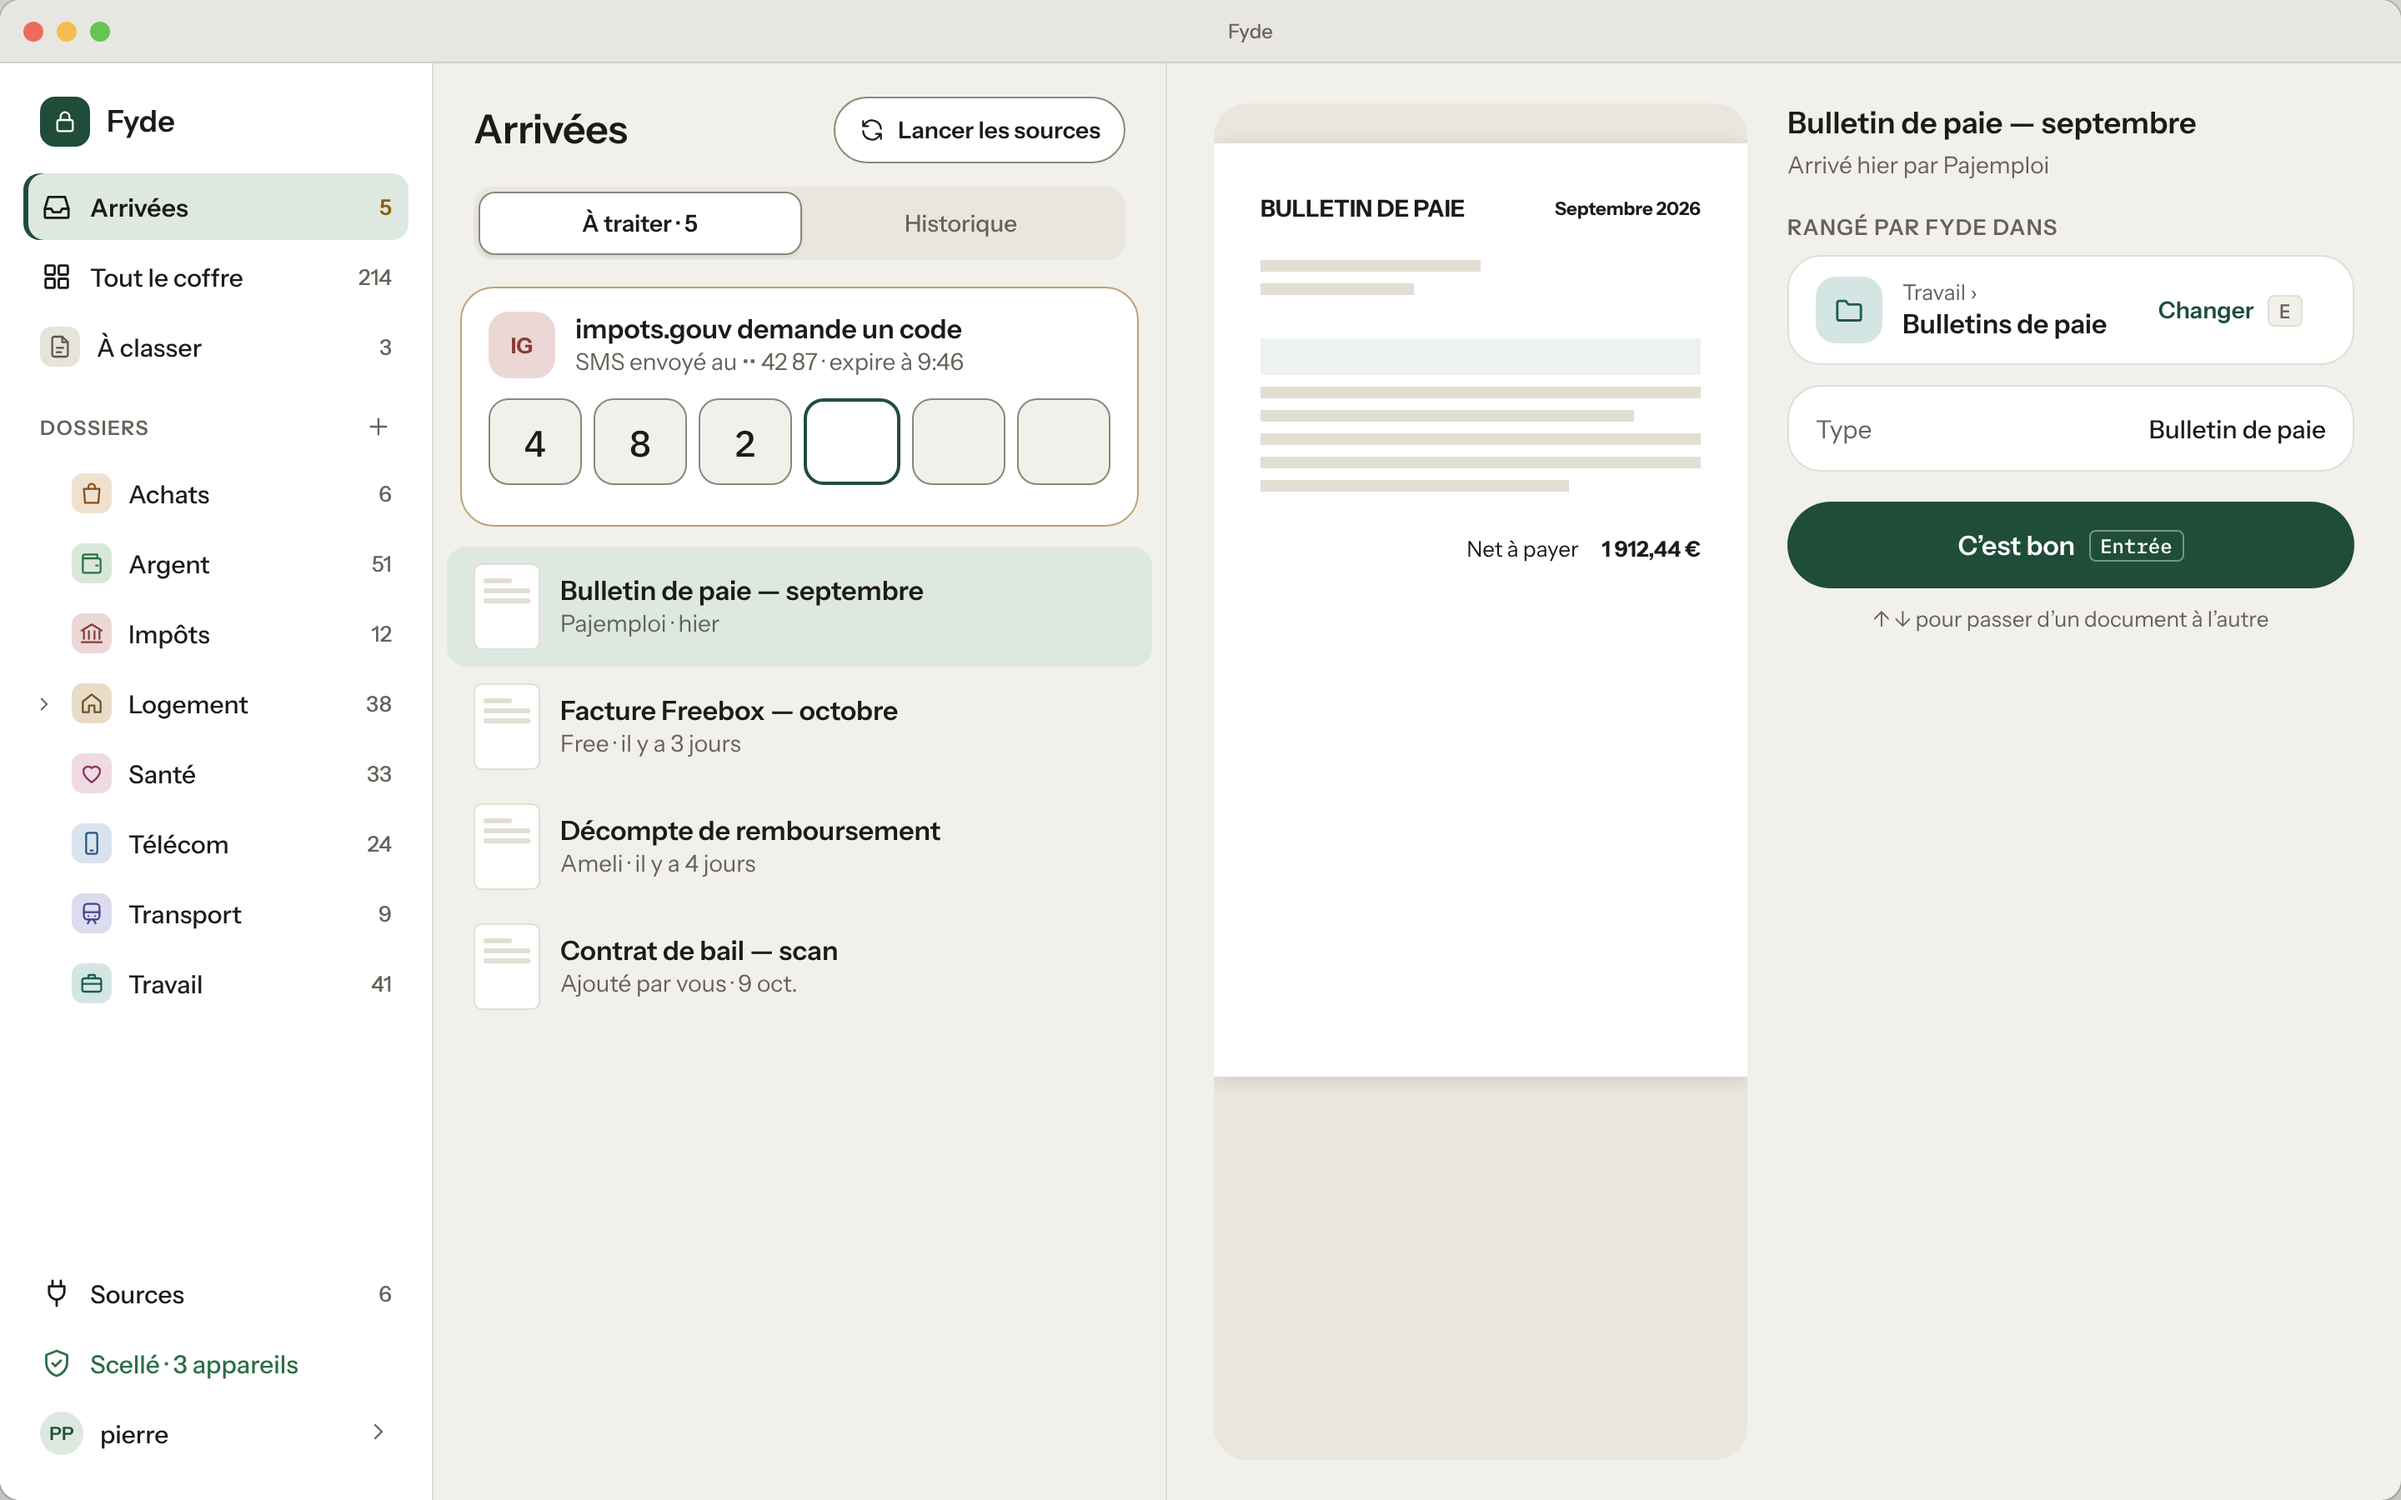
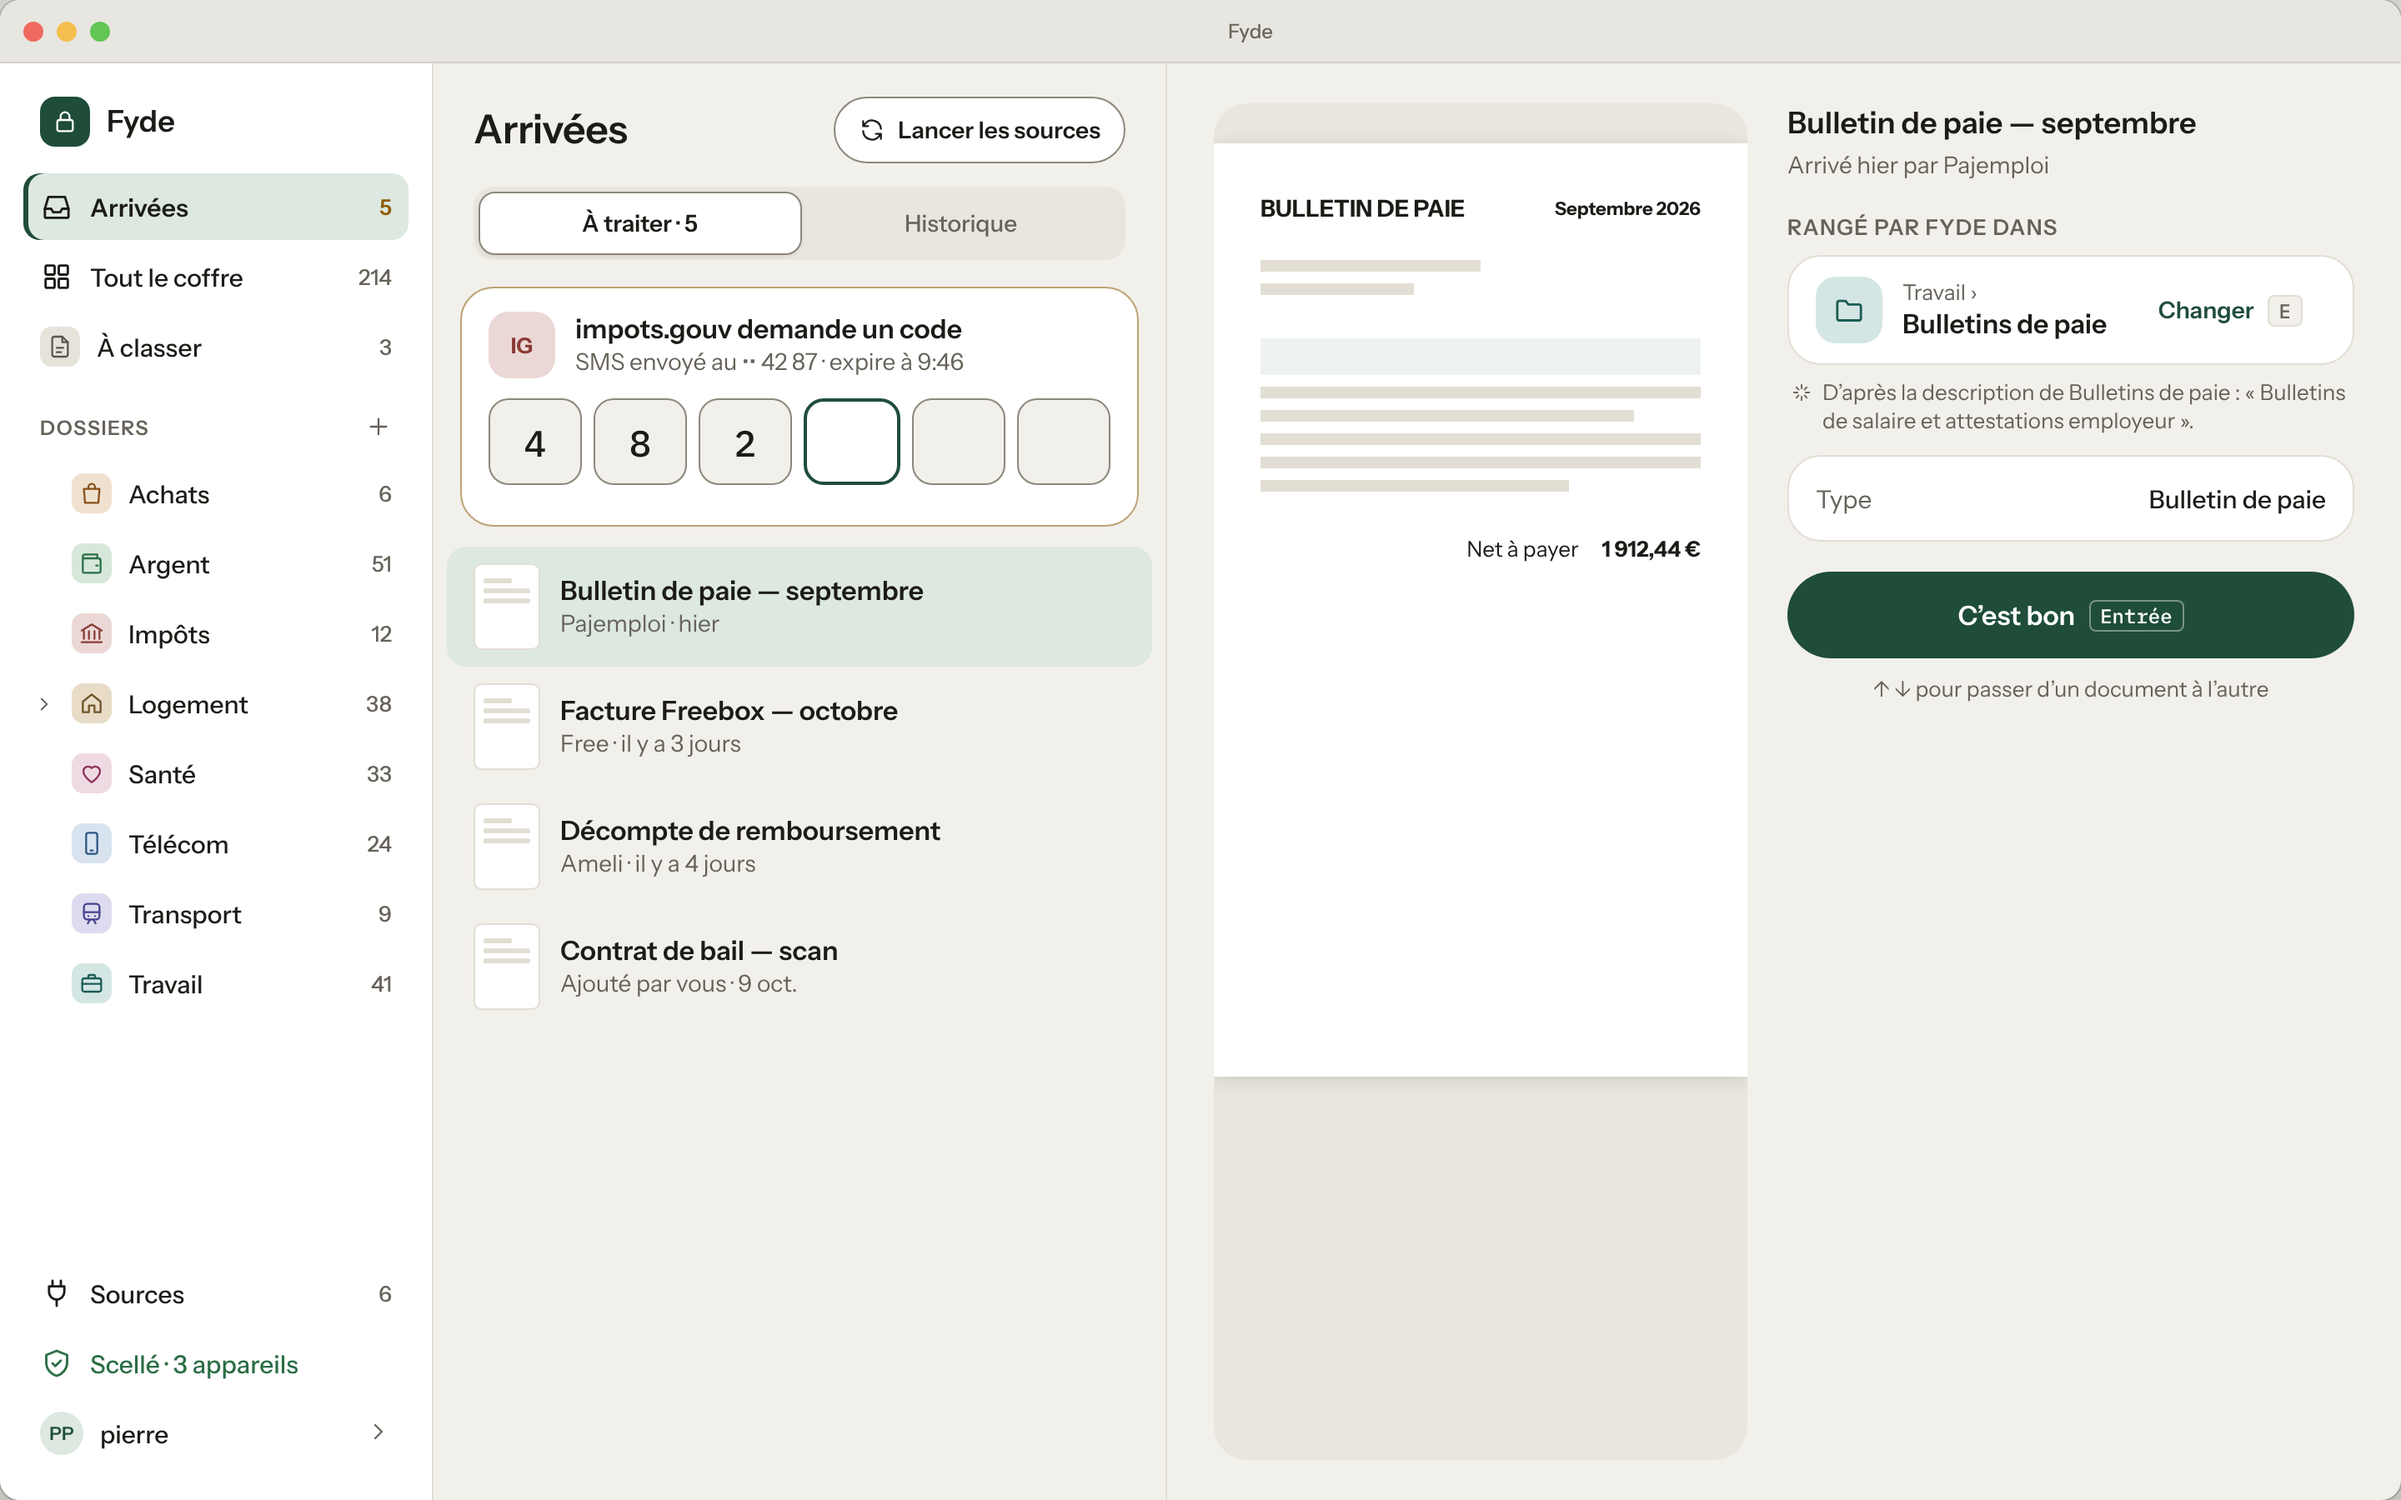
Design: show description-based filing in R1 and D3
R1's suggestions add "d'après la description de <folder>" under where a
document was filed; D3's panel quotes the folder description it matched.

Claude-Session: https://claude.ai/code/session_011depZrDU4NEQ5RNXqvtfcB

Changed region(s): [[0.7188, 0.2489, 1.0, 0.4667]]

diff --git a/design/assets/mockups/core.html b/design/assets/mockups/core.html
@@ -164,12 +164,12 @@
  </div>
  <div class="icard">
   <div class="row" style="gap:12px"><div class="mini" style="width:40px;height:52px;padding:5px"><i></i><i style="width:60%"></i><i></i></div><div class="grow"><p style="font:600 16px/21px var(--font)">Bulletin de paie — septembre</p><p style="font:400 14px var(--font);color:var(--muted)">Pajemploi · arrivé hier</p></div></div>
-  <div class="sugg"><svg class="ic sm" style="color:var(--c-work-i)"><use href="#i-brief"/></svg><span>Rangé dans <b style="font-weight:600">Travail › Bulletins de paie</b></span></div>
+  <div class="sugg"><svg class="ic sm" style="color:var(--c-work-i)"><use href="#i-brief"/></svg><span>Rangé dans <b style="font-weight:600">Travail › Bulletins de paie</b><br><span style="font-size:13px;color:var(--muted)">d’après la description de Bulletins de paie</span></span></div>
   <div class="sbtns"><button style="background:var(--surface);border:1px solid var(--border)">Modifier</button><button style="background:var(--primary);color:var(--onp)">C’est bon</button></div>
  </div>
  <div class="icard">
   <div class="row" style="gap:12px"><div class="mini" style="width:40px;height:52px;padding:5px"><i></i><i style="width:60%"></i><i></i></div><div class="grow"><p style="font:600 16px/21px var(--font)">Facture Freebox — octobre</p><p style="font:400 14px var(--font);color:var(--muted)">Free · arrivé il y a 3 jours</p></div></div>
-  <div class="sugg"><svg class="ic sm" style="color:var(--c-tel-i)"><use href="#i-phone"/></svg><span>Rangé dans <b style="font-weight:600">Télécom › Internet</b></span></div>
+  <div class="sugg"><svg class="ic sm" style="color:var(--c-tel-i)"><use href="#i-phone"/></svg><span>Rangé dans <b style="font-weight:600">Télécom › Internet</b><br><span style="font-size:13px;color:var(--muted)">d’après la description de Internet</span></span></div>
  </div>
  <div class="tabs">
   <div class="tab"><svg class="ic lg"><use href="#i-grid"/></svg>Coffre</div>
@@ -192,12 +192,12 @@
  </div>
  <div class="icard">
   <div class="row" style="gap:12px"><div class="mini" style="width:40px;height:52px;padding:5px"><i></i><i style="width:60%"></i><i></i></div><div class="grow"><p style="font:600 16px/21px var(--font)">Bulletin de paie — septembre</p><p style="font:400 14px var(--font);color:var(--muted)">Pajemploi · arrivé hier</p></div></div>
-  <div class="sugg"><svg class="ic sm" style="color:var(--c-work-i)"><use href="#i-brief"/></svg><span>Rangé dans <b style="font-weight:600">Travail › Bulletins de paie</b></span></div>
+  <div class="sugg"><svg class="ic sm" style="color:var(--c-work-i)"><use href="#i-brief"/></svg><span>Rangé dans <b style="font-weight:600">Travail › Bulletins de paie</b><br><span style="font-size:13px;color:var(--muted)">d’après la description de Bulletins de paie</span></span></div>
   <div class="sbtns"><button style="background:var(--surface);border:1px solid var(--border)">Modifier</button><button style="background:var(--primary);color:var(--onp)">C’est bon</button></div>
  </div>
  <div class="icard">
   <div class="row" style="gap:12px"><div class="mini" style="width:40px;height:52px;padding:5px"><i></i><i style="width:60%"></i><i></i></div><div class="grow"><p style="font:600 16px/21px var(--font)">Facture Freebox — octobre</p><p style="font:400 14px var(--font);color:var(--muted)">Free · arrivé il y a 3 jours</p></div></div>
-  <div class="sugg"><svg class="ic sm" style="color:var(--c-tel-i)"><use href="#i-phone"/></svg><span>Rangé dans <b style="font-weight:600">Télécom › Internet</b></span></div>
+  <div class="sugg"><svg class="ic sm" style="color:var(--c-tel-i)"><use href="#i-phone"/></svg><span>Rangé dans <b style="font-weight:600">Télécom › Internet</b><br><span style="font-size:13px;color:var(--muted)">d’après la description de Internet</span></span></div>
  </div>
  <div class="tabs">
   <div class="tab"><svg class="ic lg"><use href="#i-grid"/></svg>Coffre</div>
@@ -222,12 +222,12 @@
  </div>
  <div class="icard">
   <div class="row" style="gap:12px"><div class="mini" style="width:40px;height:52px;padding:5px"><i></i><i style="width:60%"></i><i></i></div><div class="grow"><p style="font:600 16px/21px var(--font)">Bulletin de paie — septembre</p><p style="font:400 14px var(--font);color:var(--muted)">Pajemploi · arrivé hier</p></div></div>
-  <div class="sugg"><svg class="ic sm" style="color:var(--c-work-i)"><use href="#i-brief"/></svg><span>Rangé dans <b style="font-weight:600">Travail › Bulletins de paie</b></span></div>
+  <div class="sugg"><svg class="ic sm" style="color:var(--c-work-i)"><use href="#i-brief"/></svg><span>Rangé dans <b style="font-weight:600">Travail › Bulletins de paie</b><br><span style="font-size:13px;color:var(--muted)">d’après la description de Bulletins de paie</span></span></div>
   <div class="sbtns"><button style="background:var(--surface);border:1px solid var(--border)">Modifier</button><button style="background:var(--primary);color:var(--onp)">C’est bon</button></div>
  </div>
  <div class="icard">
   <div class="row" style="gap:12px"><div class="mini" style="width:40px;height:52px;padding:5px"><i></i><i style="width:60%"></i><i></i></div><div class="grow"><p style="font:600 16px/21px var(--font)">Facture Freebox — octobre</p><p style="font:400 14px var(--font);color:var(--muted)">Free · arrivé il y a 3 jours</p></div></div>
-  <div class="sugg"><svg class="ic sm" style="color:var(--c-tel-i)"><use href="#i-phone"/></svg><span>Rangé dans <b style="font-weight:600">Télécom › Internet</b></span></div>
+  <div class="sugg"><svg class="ic sm" style="color:var(--c-tel-i)"><use href="#i-phone"/></svg><span>Rangé dans <b style="font-weight:600">Télécom › Internet</b><br><span style="font-size:13px;color:var(--muted)">d’après la description de Internet</span></span></div>
  </div>
  <div class="tabs">
   <div class="tab"><svg class="ic lg"><use href="#i-grid"/></svg>Coffre</div>

diff --git a/design/assets/mockups/desktop.html b/design/assets/mockups/desktop.html
@@ -345,6 +345,7 @@
      <p class="h3">Bulletin de paie — septembre</p><p class="t2" style="margin-top:4px">Arrivé hier par Pajemploi</p>
      <p class="sec" style="padding:18px 0 8px">Rangé par Fyde dans</p>
      <div class="group" style="margin:0"><div class="it" style="min-height:64px"><span class="ftile" style="--cbg:var(--c-work);--ci:var(--c-work-i)"><svg class="ic"><use href="#i-folder"/></svg></span><div class="grow"><p class="t3">Travail ›</p><p class="t1">Bulletins de paie</p></div><button class="pbtn t sm">Changer<span class="kbd">E</span></button></div></div>
+     <p class="t3 row" style="gap:6px;padding:8px 2px 0;align-items:flex-start"><svg class="ic xs" style="margin-top:2px"><use href="#i-sparkle"/></svg><span>D’après la description de Bulletins de paie : « Bulletins de salaire et attestations employeur ».</span></p>
      <div class="group" style="margin:12px 0 0"><div class="kv"><span>Type</span><b>Bulletin de paie</b></div></div>
      <button class="pbtn f w" style="margin-top:18px">C’est bon<span class="kbd" style="background:transparent;color:var(--onp);border-color:rgba(255,255,255,.4)">Entrée</span></button>
      <p class="t3" style="text-align:center;margin-top:10px">↑ ↓ pour passer d’un document à l’autre</p>

diff --git a/design/design-system.md b/design/design-system.md
@@ -623,7 +623,7 @@ The tables hold each screen's content and states; how screens lead to one anothe
 | K2 | Vérifier le scan | Crop, rotate, delete, add page; name; suggested folder with Modifier (the picker); Ajouter au coffre | No suggestion → "À classer" and listed in Arrivées |
 | K3 | Depuis une autre app | Share extension sheet: file, name, suggestion, "Chiffré sur cet iPhone avant d'être envoyé" | Signed out → "Ouvrez Fyde pour ajouter" |
 | K4 | Ajout en cours | Row appears at once with "Chiffrement…"; progress snackbar; duplicate → "Déjà dans le coffre · Voir" | `DuplicateDocument` is never an error |
-| R1 | Arrivées | À traiter / Historique; code card first; documents with their suggestion and Modifier / C'est bon | Swipe right = C'est bon |
+| R1 | Arrivées | À traiter / Historique; code card first; documents with the folder Fyde put them in ("Rangé dans Travail › Bulletins de paie", then "d'après la description de Bulletins de paie" in `caption`) and Modifier / C'est bon; one Fyde couldn't match reads "Dans À classer" with Ranger | Swipe right = C'est bon |
 | R1b | Arrivées (sombre) | R1 in the dark theme | Dark reference for the code card and segments |
 | R1c | Code expiré | R1 with the code card replaced: "Le code d'impots.gouv a expiré", the deadline it missed, Plus tard · Relancer | Relancer runs the source again on this device; the card leaves the queue once a new code is asked or the run ends |
 | R2 | Tout est rangé | Check disc, "repasseront dans la journée, chacune sur son appareil", Lancer maintenant | Badge hidden |
@@ -686,7 +686,7 @@ How the account screens connect is in [`screen-map.md`](screen-map.md#moi-m1m12)
 | D2 | Document | Sidebar · 400dp list of the document's folder (breadcrumb, name) · pass, Informations and facts (Dossier: its path), Enregistrer · Déplacer · "…" · live preview |
 | D2b | Actions du document | D2 with "…" open: a menu with what the row's buttons don't hold (Partager, Renommer, Informations techniques), then a divider and Supprimer de tous mes appareils in `error`, each with its shortcut; right-click on a row opens the same menu |
 | D2c | Supprimer le document | V10 as a 500dp dialog over D2: `error` trash tile, title, the same text and note; Annuler · Supprimer, focus on Annuler so Enter never deletes; Esc cancels. Afterwards the list's next document opens, or the category if it was the last |
-| D3 | Arrivées | Sidebar · queue with inline code card · preview · panel with the folder Fyde chose and Changer (E, the D8 picker), the type, and C'est bon (Enter) |
+| D3 | Arrivées | Sidebar · queue with inline code card · preview · panel with the folder Fyde chose and Changer (E, the D8 picker), the description it matched quoted under it ("D'après la description de Bulletins de paie : « … »"), the type, and C'est bon (Enter) |
 | D4 | Sources | Sidebar · sortable table (source, état, dernier passage, documents, appareil) · detail panel with Appareil · Changer |
 | D4b | Source en cours | D4 with the selected source running: "Récupération… 5 / 12" in the table, the panel's live stepper ("En cours · lancée à 14:58") and an outlined Arrêter in Lancer's place; another row shows the Stopped status ("Arrêtée · 3 gardés") |
 | D5 | Moi | Sidebar (avatar row selected) · the M1 menu as a 360dp column · the open page beside it (Sécurité by default), with the phone pages' content |
